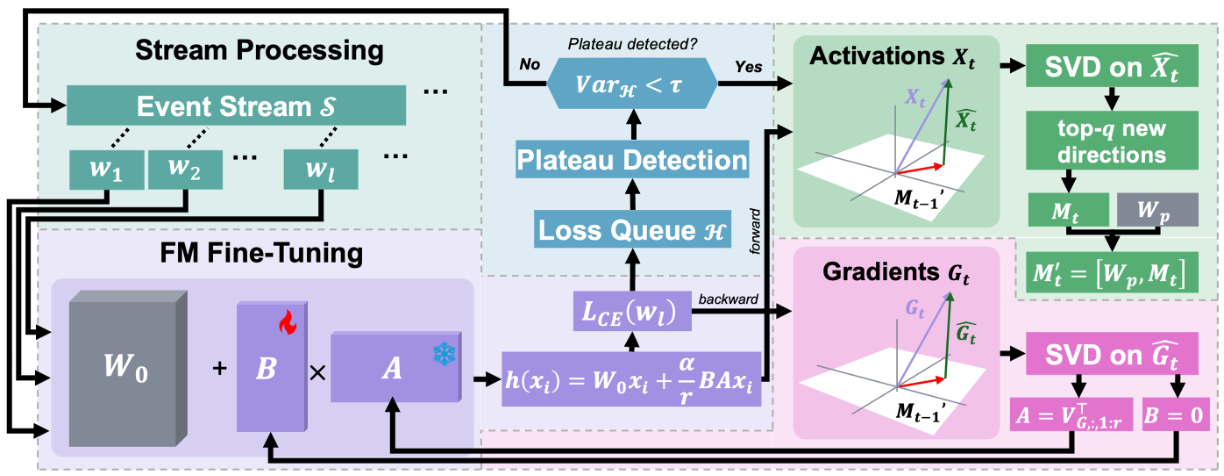
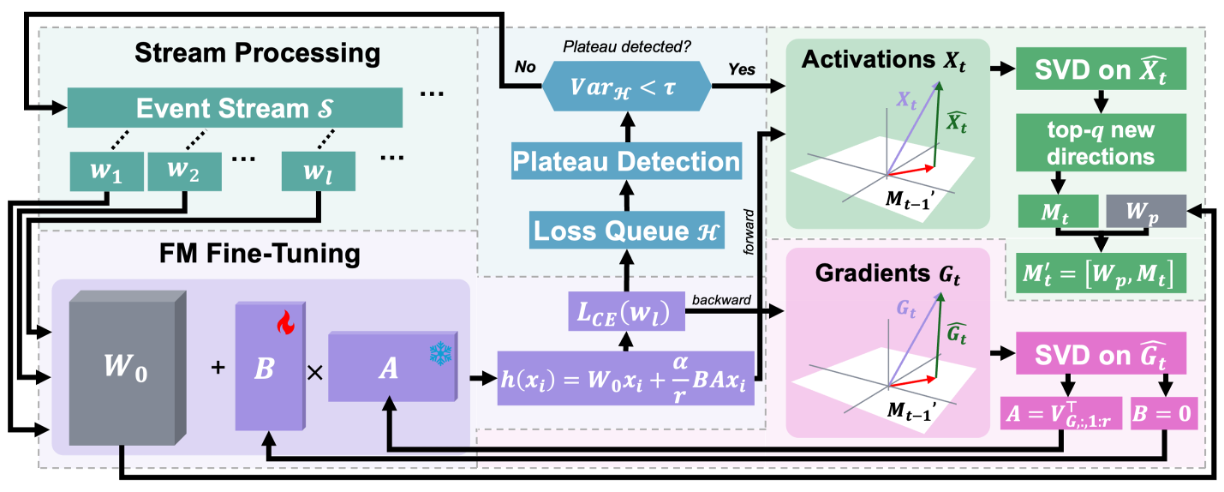
changes to polish

diff --git a/Methods/COMPASS/engine.py b/Methods/COMPASS/engine.py
@@ -98,7 +98,7 @@ class COMPASSEngine:
                     self.oracle_drift_indices = sorted(self.DRIFT_DATA[key])
                     break
             if self.verbose:
-                print(f"[COMPASS] Oracle: {len(self.oracle_drift_indices)} drift points for {clean_name}")
+                print(f"Oracle: {len(self.oracle_drift_indices)} drift points for {clean_name}")
 
         self.criterion = nn.CrossEntropyLoss(reduction="sum")
         self.plateau_maxlen = loss_window_length
@@ -114,7 +114,7 @@ class COMPASSEngine:
 
         if self.verbose:
             n_trainable = sum(p.numel() for p in self.model.parameters() if p.requires_grad)
-            print(f"[COMPASS] Trainable params: {n_trainable:,} | use_svd={use_svd} | oracle={use_oracle_drift}")
+            print(f"Trainable params: {n_trainable:,} | use_svd={use_svd} | oracle={use_oracle_drift}")
 
     def _rebuild_optimizer(self, lr=None):
         lr = lr or self.learning_rate
@@ -157,7 +157,7 @@ class COMPASSEngine:
         if not self.use_svd:
             return 0.0
         self.plateau_triggers += 1
-        print(f"\n[COMPASS] {reason} — consolidating task #{self.plateau_triggers}")
+        print(f"\n{reason} — consolidating task #{self.plateau_triggers}")
         t0 = time.perf_counter()
         self.keeplora_handler.consolidate_task(
             model=self.model,
@@ -197,7 +197,7 @@ class COMPASSEngine:
         self.model.train()
         per_event_records = []
         window_records = []
-        print("[COMPASS] Starting stream...")
+        print("Starting stream...")
 
         # Flatten stream
         if isinstance(data.test_inputs, dict):
@@ -226,7 +226,6 @@ class COMPASSEngine:
             y_win = label_stream[s_win:e_win]
             win_size = len(y_win)
 
-            # Oracle drift check 
             consolidation_time_s = 0.0
             triggered_consolidation = False
             if self.use_oracle_drift and self.use_svd:
@@ -238,8 +237,8 @@ class COMPASSEngine:
                         )
                         triggered_consolidation = True
                         break
-
-            # Inference
+               
+            #inference
             self.model.eval()
             t0 = time.perf_counter()
             with torch.no_grad():
@@ -256,7 +255,7 @@ class COMPASSEngine:
             gpu_mem = _gpu_mem_mb()
             cpu_mem = _cpu_ram_mb()
 
-            # Train
+            #training
             self.model.train()
             self._update_hard_buffer(x_win, y_win)
             cur_n = len(y_win)
@@ -292,7 +291,7 @@ class COMPASSEngine:
             train_time_per_event = (time.perf_counter() - t0) / win_size
             avg_loss = accumulated_loss / self.gradient_steps
 
-            # Plateau-based consolidation (only when not using oracle)
+            #consolidation
             plateau_time, loss_variance = self._check_and_handle_plateau(avg_loss, x_win, y_win)
             if plateau_time > 0.0:
                 consolidation_time_s += plateau_time
@@ -302,9 +301,8 @@ class COMPASSEngine:
             cumulative_acc = total_correct / total_seen
 
             if self.verbose:
-                print(f"  [COMPASS] Window {i+1}/{n_full} | Loss: {avg_loss:.4f} | Acc: {test_acc:.4f}")
-
-            # Per-event records
+                print(f"Window {i+1}/{n_full} | Loss: {avg_loss:.4f} | Acc: {test_acc:.4f}")
+                
             if self.save_per_event:
                 for j in range(win_size):
                     p = probs[j]
@@ -331,7 +329,6 @@ class COMPASSEngine:
                         "consolidation_count":     self.plateau_triggers,
                     })
 
-            # Per-window drift record
             window_records.append({
                 "window_idx":          i,
                 "window_start_event":  s_win,
@@ -366,12 +363,11 @@ class COMPASSEngine:
                 writer = csv.DictWriter(f, fieldnames=list(window_records[0].keys()))
                 writer.writeheader()
                 writer.writerows(window_records)
-            print(f"[COMPASS] Per-window drift CSV → {path_w}")
 
         total_acc   = total_correct / total_seen if total_seen > 0 else 0.0
         macro_f1    = f1_score(all_true, all_preds, average="macro",    zero_division=0)
         weighted_f1 = f1_score(all_true, all_preds, average="weighted", zero_division=0)
-        print(f"\n[COMPASS] Done. Acc: {total_acc:.4f} | Macro-F1: {macro_f1:.4f} | Weighted-F1: {weighted_f1:.4f} | Consolidations: {self.plateau_triggers}")
+        print(f"\nAcc: {total_acc:.4f} | Macro-F1: {macro_f1:.4f} | Weighted-F1: {weighted_f1:.4f} | Consolidations: {self.plateau_triggers}")
 
         return {
             "prediction_results": {"actual_labels": all_true, "prediction_labels": all_preds},

diff --git a/Methods/COMPASS/keeplora_handler.py b/Methods/COMPASS/keeplora_handler.py
@@ -35,10 +35,9 @@ class KeepLoRAHandler:
         for name, module in model.named_modules():
             if not (hasattr(module, "lora_A") and hasattr(module, "base_layer")):
                 continue
-            W = module.base_layer.weight.data.float()  # (d_out, d_in)
+            W = module.base_layer.weight.data.float()
             try:
                 _, S, Vh = torch.linalg.svd(W, full_matrices=False)
-                # Vh: (k, d_in)  →  Vh.T columns are right singular vectors
                 energy = torch.cumsum(S ** 2, dim=0) / (S ** 2).sum()
                 k_idx = (energy >= self.energy_wp).nonzero(as_tuple=True)[0]
                 p = int(k_idx[0].item()) + 1 if len(k_idx) > 0 else len(S)
@@ -47,7 +46,7 @@ class KeepLoRAHandler:
                 self.principal_subspace[name] = Vh[:p, :].T.to(self.device)
                 count += 1
             except Exception as e:
-                print(f"  [COMPASS] Wp SVD failed for {name}: {e}")
+                print(f"Wp SVD failed for {name}: {e}")
 
     def consolidate_task(
         self,
@@ -89,8 +88,8 @@ class KeepLoRAHandler:
             X_flat = X.reshape(-1, X.shape[-1]).to(self.device)
             d_in = X_flat.shape[1]
 
-            Wp = self.principal_subspace.get(name)      # (d_in, p)
-            Mt_prev = self.task_directions.get(name)    # (d_in, k)
+            Wp = self.principal_subspace.get(name)      
+            Mt_prev = self.task_directions.get(name)    
             X_hat = X_flat
             if self.use_Wp and Wp is not None and Wp.shape[0] == d_in:
                 Wp_d = Wp.to(X_flat.device)
@@ -105,7 +104,7 @@ class KeepLoRAHandler:
                 k_idx = (energy >= self.energy_ft).nonzero(as_tuple=True)[0]
                 m = int(k_idx[0].item()) + 1 if len(k_idx) > 0 else min(8, len(S_x))
                 m = min(m, self.max_subspace_rank)
-                new_dirs = Vh_x[:m, :].T  # (d_in, m)
+                new_dirs = Vh_x[:m, :].T 
 
                 if name not in self.task_directions:
                     self.task_directions[name] = new_dirs
@@ -122,7 +121,7 @@ class KeepLoRAHandler:
 
                 updated += 1
             except Exception as e:
-                print(f"  [COMPASS] Mt update failed for {name}: {e}")
+                print(f"Mt update failed for {name}: {e}")
 
     def _reinitialize_lora_A(
         self,
@@ -151,11 +150,11 @@ class KeepLoRAHandler:
             if lora_a is None or module.base_layer.weight.grad is None:
                 continue
 
-            G = module.base_layer.weight.grad.float()   # (d_out, d_in)
+            G = module.base_layer.weight.grad.float()   
             d_in = G.shape[1]
 
-            Wp = self.principal_subspace.get(name)      # (d_in, p)
-            Mt = self.task_directions.get(name)         # (d_in, k)
+            Wp = self.principal_subspace.get(name)      
+            Mt = self.task_directions.get(name)        
 
             G_hat = G
             if self.use_Wp and Wp is not None and Wp.shape[0] == d_in:
@@ -177,7 +176,7 @@ class KeepLoRAHandler:
                     lora_b.weight.requires_grad_(True)
                 reinit_count += 1
             except Exception as e:
-                print(f"  [COMPASS] A reinit failed for {name}: {e}")
+                print(f"A reinit failed for {name}: {e}")
 
         model.zero_grad()
 
@@ -194,7 +193,7 @@ class KeepLoRAHandler:
                     with torch.no_grad():
                         lora_b.weight.data.zero_()
                 count += 1
-        print(f"  Reset B to zero for {count} layers (A kept, no gradient reinit).")
+        print(f"Reset B to zero for {count} layers (A kept, no gradient reinit).")
 
     def ensure_only_B_trainable(self, model: nn.Module) -> None:
         for module in model.modules():

diff --git a/Utils/preprocess.py b/Utils/preprocess.py
@@ -22,7 +22,6 @@ def preprocess(file: str, save_dir: str = "Preprocessed"):
     
     save_path = os.path.join(save_dir, f"{dataName}_preprocessed.pkl")
 
-    # 1. Load cache if it exists
     if os.path.exists(save_path):
         print(f"Loading cached preprocessing for {dataName} from {save_path}")
         with open(save_path, "rb") as f:
@@ -33,9 +32,6 @@ def preprocess(file: str, save_dir: str = "Preprocessed"):
             return objs["dataName"], ds
         else:
             print("Cache found but missing 'case_ids'. Re-running preprocessing...")
-
-    # 2. Fresh preprocess
-    print(f"\n--- START PREPROCESSING: {dataName} ---")
     
     if Data is None:
         raise ImportError("The 'Data' or 'Setup' modules are missing from the root directory.")
@@ -64,17 +60,12 @@ def preprocess(file: str, save_dir: str = "Preprocessed"):
     d.logfile.keep_attributes(["event", "completeTime"])
     
     if STANDARD:
-        print(f"Applying STANDARD settings (Split={STANDARD.train_percentage})...")
         d.prepare(STANDARD)
-    
-    print("### Data Prepared")
     
     if hasattr(d, 'test_logfile') and d.test_logfile is not None:
         target_logfile = d.test_logfile
-        print(f"DEBUG: Using TEST LogFile. Rows: {len(target_logfile.data)}")
     else:
         target_logfile = d.logfile
-        print(f"DEBUG: Using FULL LogFile. Rows: {len(target_logfile.data)}")
 
     df = target_logfile.get_data().copy()
     
@@ -88,14 +79,12 @@ def preprocess(file: str, save_dir: str = "Preprocessed"):
     ):
         try:
             parsed = pd.to_datetime(df["completeTime"], format=fmt, exact=True)
-            print("Detected time format:", fmt)
             break
         except Exception:
             parsed = None
     
     if parsed is None:
         parsed = pd.to_datetime(df["completeTime"], errors="coerce")
-        print("Time format: auto-inferred (coerce).")
     df["completeTime"] = parsed
 
     if target_logfile.contextdata is None:
@@ -103,7 +92,6 @@ def preprocess(file: str, save_dir: str = "Preprocessed"):
     else:
         target_logfile.contextdata = df
 
-    print("Initializing Sampler...")
     data_sampler = Sampler(data=d)
 
     trace_col_name = "case"
@@ -112,9 +100,7 @@ def preprocess(file: str, save_dir: str = "Preprocessed"):
     
     try:
         raw_case_ids = df[trace_col_name].values
-        print(f"DEBUG: Extracted {len(raw_case_ids)} raw case IDs from column '{trace_col_name}'.")
     except KeyError:
-        print(f"WARNING: Column '{trace_col_name}' not found. Using first column.")
         raw_case_ids = df.iloc[:, 0].values
 
     sampler_len = 0
@@ -126,23 +112,16 @@ def preprocess(file: str, save_dir: str = "Preprocessed"):
     else:
         sampler_len = len(data_sampler.test_inputs)
 
-    print(f"DEBUG: Sampler contains {sampler_len} sequences.")
-
     if len(raw_case_ids) > sampler_len:
         diff = len(raw_case_ids) - sampler_len
-        print(f"[ALIGNMENT] Mismatch detected: Raw Log={len(raw_case_ids)}, Sampler={sampler_len}")
-        print(f"[ALIGNMENT] Trimming {diff} rows from the BEGINNING of Case IDs.")
         data_sampler.case_ids = raw_case_ids[-sampler_len:]
     elif len(raw_case_ids) < sampler_len:
-        print(f"CRITICAL WARNING: Sampler has MORE data ({sampler_len}) than Raw Log ({len(raw_case_ids)}).")
         data_sampler.case_ids = raw_case_ids
     else:
-        print(f"[ALIGNMENT] Perfect match ({sampler_len} rows).")
         data_sampler.case_ids = raw_case_ids
 
     with open(save_path, "wb") as f:
         pickle.dump({"dataName": dataName, "data_sampler": data_sampler}, f)
         
     print(f"Preprocessed objects saved to {save_path}")
-    print("--- PREPROCESSING COMPLETE ---\n")
     return dataName, data_sampler
